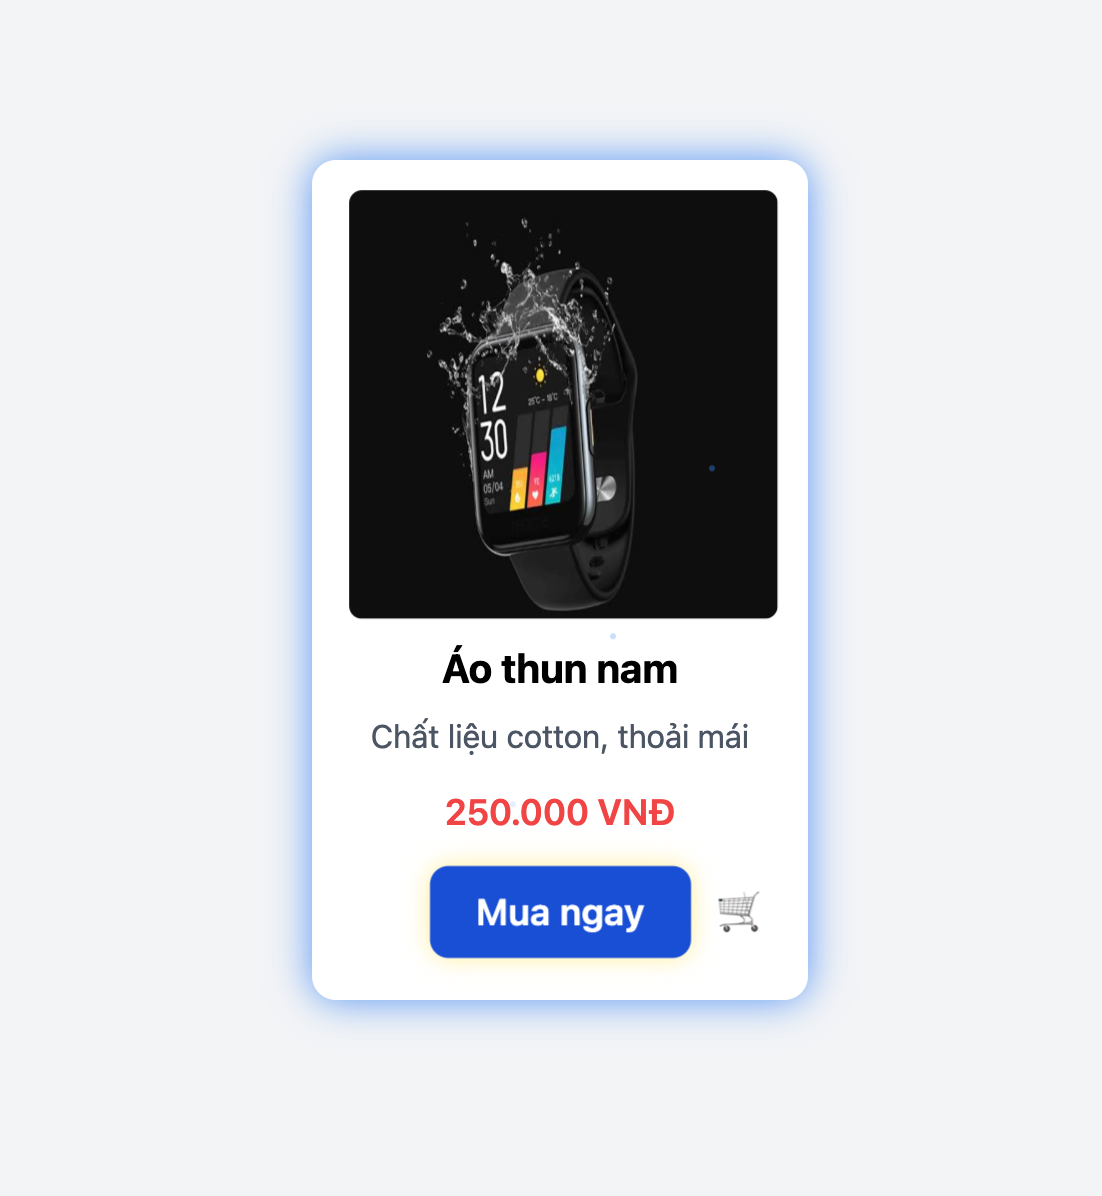
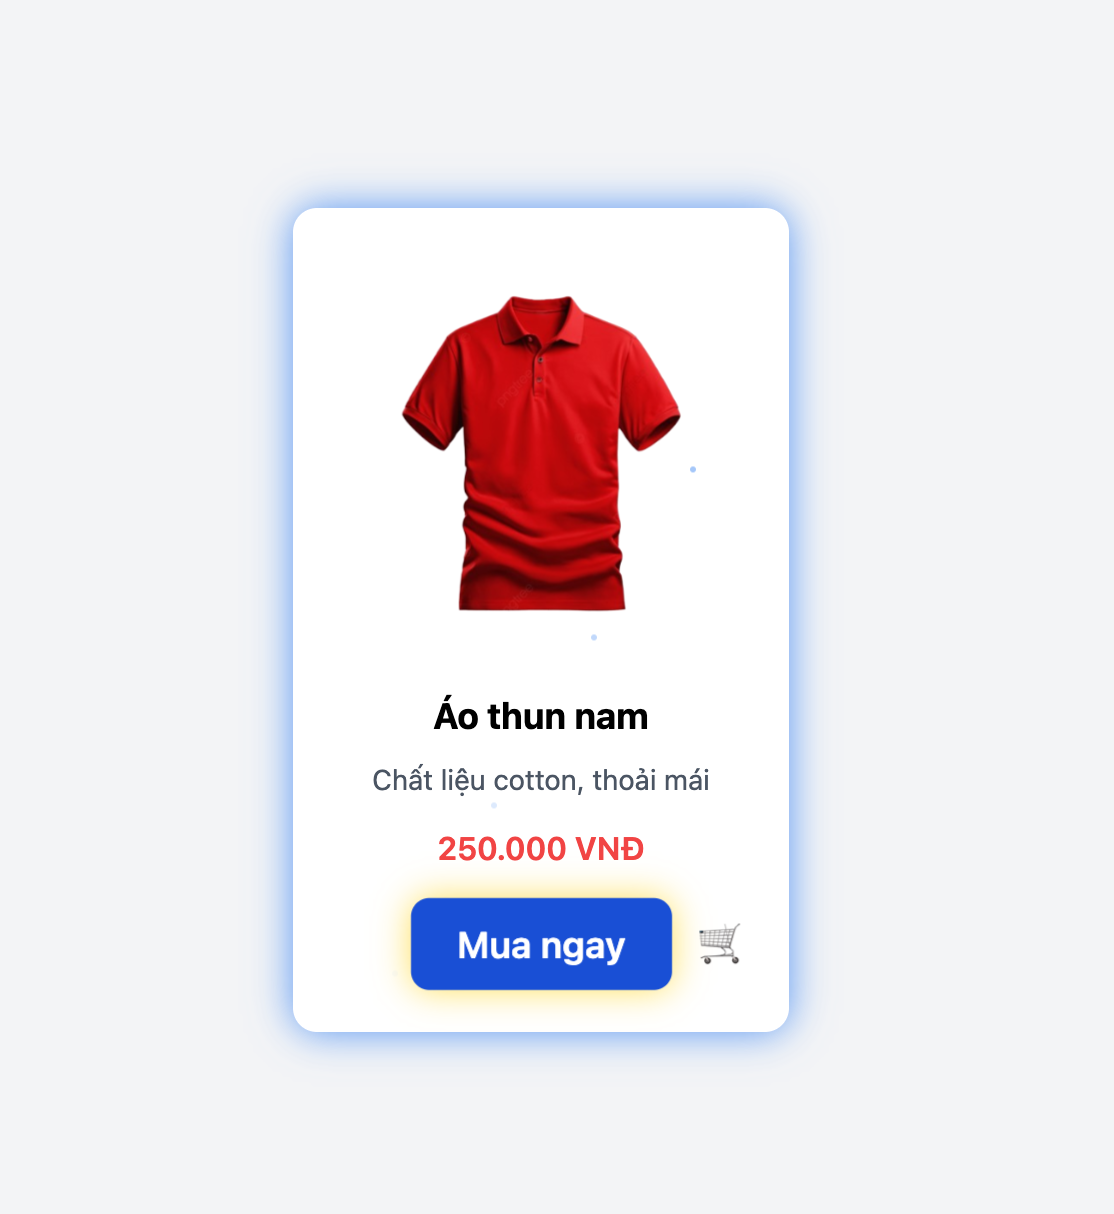
update code

Changed region(s): [[0.2468, 0.0928, 0.7713, 0.8662]]

diff --git a/product-card/article2.html b/product-card/article2.html
@@ -81,6 +81,14 @@
             opacity: 1;
             transform: translateX(5px);
         }
+        @keyframes rotate360 {
+            0% { transform: rotateY(0deg); }
+            100% { transform: rotateY(360deg); }
+        }
+
+        .product-card:hover .product-image {
+            animation: rotate360 1s linear;
+        }
         @keyframes fall {
             0% { transform: translateY(-20px); opacity: 1; }
             100% { transform: translateY(400px); opacity: 0; }
@@ -103,12 +111,12 @@
 <div class="product-card">
     <div class="card-content">
         <!-- Ảnh sản phẩm -->
-        <img src="../assets/images/product.jpeg" alt="product" class="w-[200px] h-[200px] mx-auto rounded-md product-image" />
+        <img src="../assets/images/T-shirt.png" alt="product" class="w-[200px] h-[200px] mx-auto rounded-md product-image" />
 
         <!-- Nội dung -->
-        <h2 class="text-black text-xl font-bold mt-4">Áo thun nam</h2>
-        <p class="text-gray-600 text-base mt-2">Chất liệu cotton, thoải mái</p>
-        <p class="text-red-500 text-lg font-semibold mt-3">250.000 VNĐ</p>
+        <h2 class="text-black text-lg font-bold mt-4">Áo thun nam</h2>
+        <p class="text-gray-600 text-sm mt-2">Chất liệu cotton, thoải mái</p>
+        <p class="text-red-500 text-base font-semibold mt-3">250.000 VNĐ</p>
 
         <!-- Nút mua hàng -->
         <button class="mt-4 font-semibold px-5 py-2 rounded-lg buy-button">
